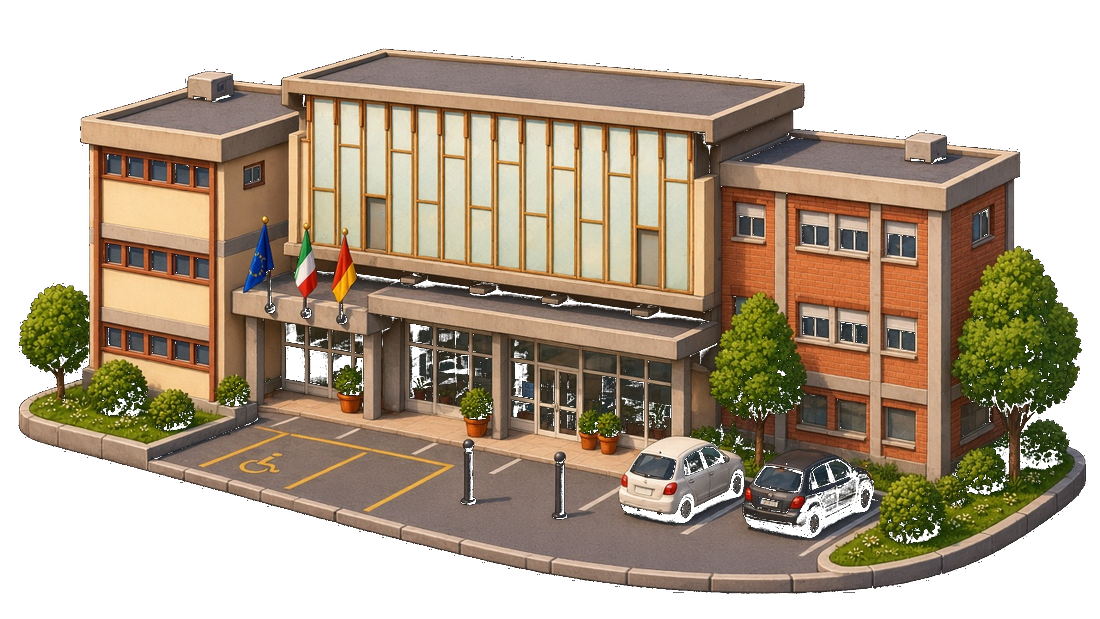
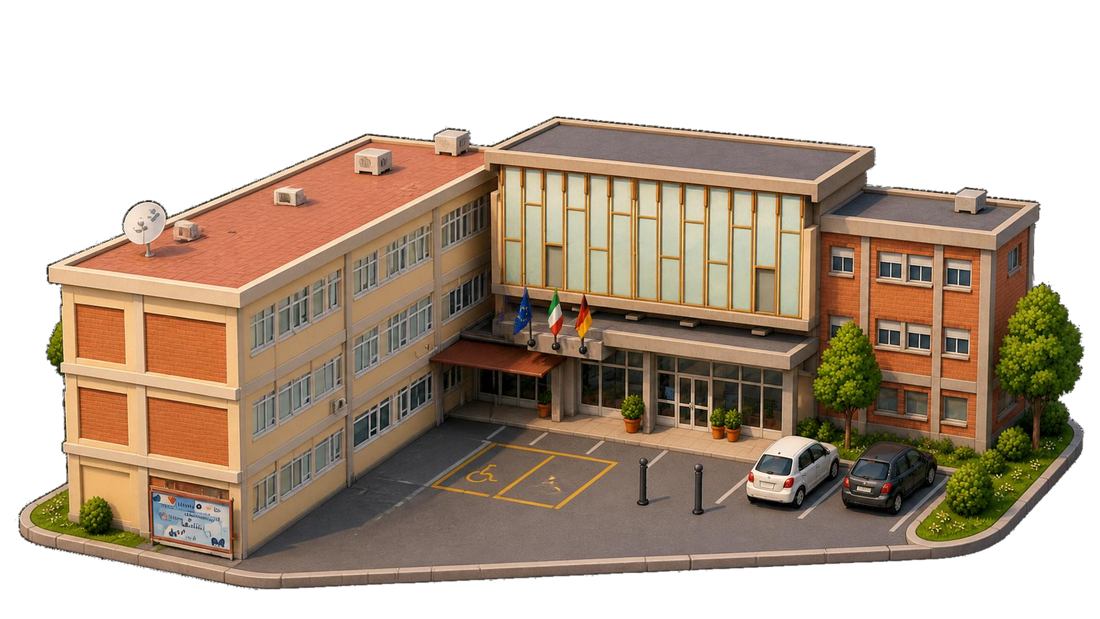
Widget meteo Meucci: ala sinistra perpendicolare e sporgente come nella foto aerea
Nuova illustrazione isometrica nello stesso stile: l'ala a tre piani
sporge sul parcheggio, con le finestre sul lato lungo e i pannelli
rossi sulla testata. Cache dell'immagine rinfrescata con ?v=2.

diff --git a/professionale/admin/stats.html b/professionale/admin/stats.html
@@ -33,7 +33,7 @@
           <span class="school-clock__rain school-clock__rain--one"></span>
           <span class="school-clock__rain school-clock__rain--two"></span>
           <span class="school-clock__lightning"></span>
-          <img src="img/meucci-isometrica.png" alt="" width="1100" height="619">
+          <img src="img/meucci-isometrica.png?v=2" alt="" width="1100" height="619">
         </div>
         <div class="school-clock__display">
           <p class="school-clock__place">Plesso Meucci · Acireale</p>
